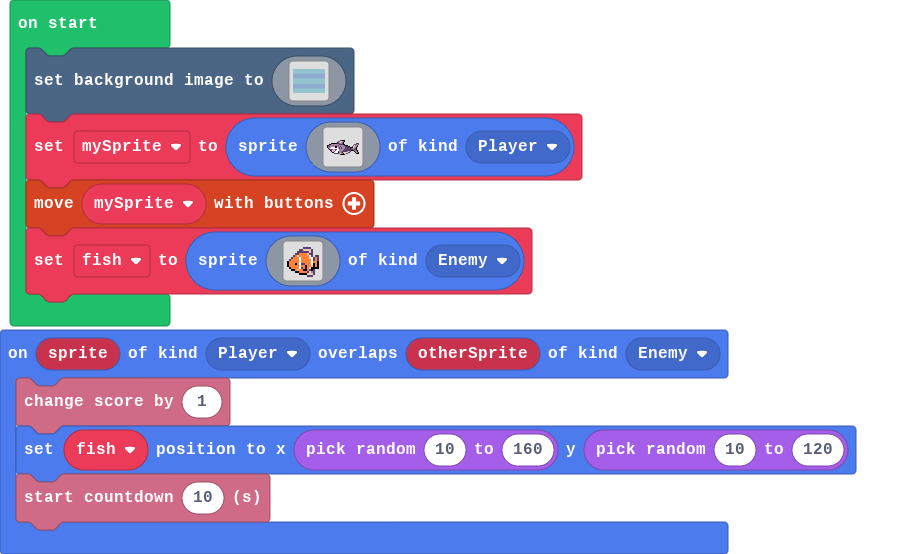
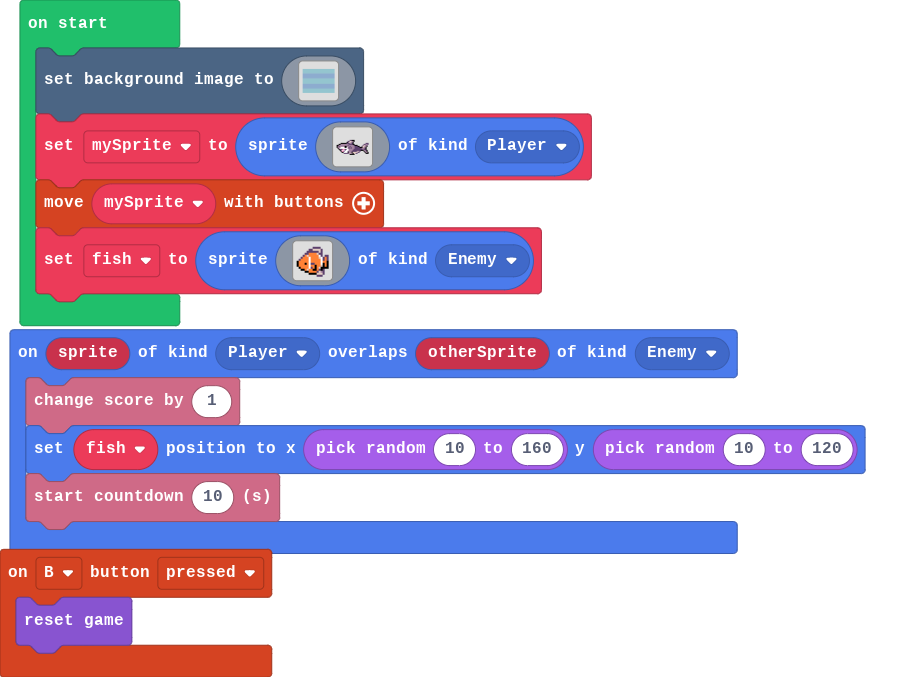
B button resets game

diff --git a/main.ts b/main.ts
@@ -1,3 +1,6 @@
+controller.B.onEvent(ControllerButtonEvent.Pressed, function () {
+    game.reset()
+})
 sprites.onOverlap(SpriteKind.Player, SpriteKind.Enemy, function (sprite, otherSprite) {
     info.changeScoreBy(1)
     fish.setPosition(randint(10, 160), randint(10, 120))
